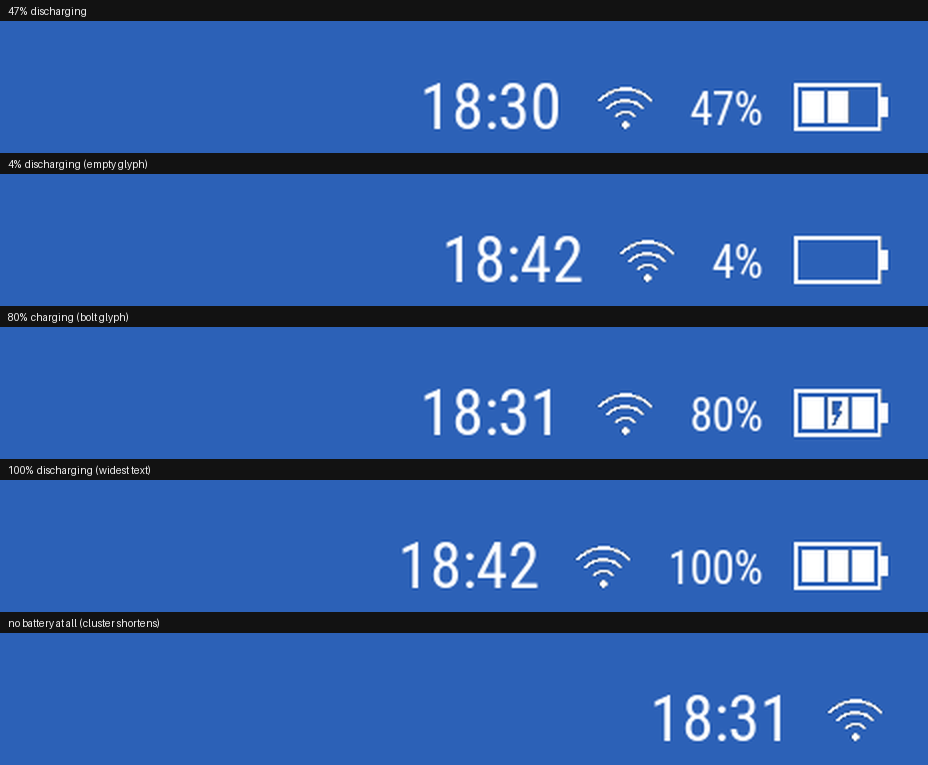
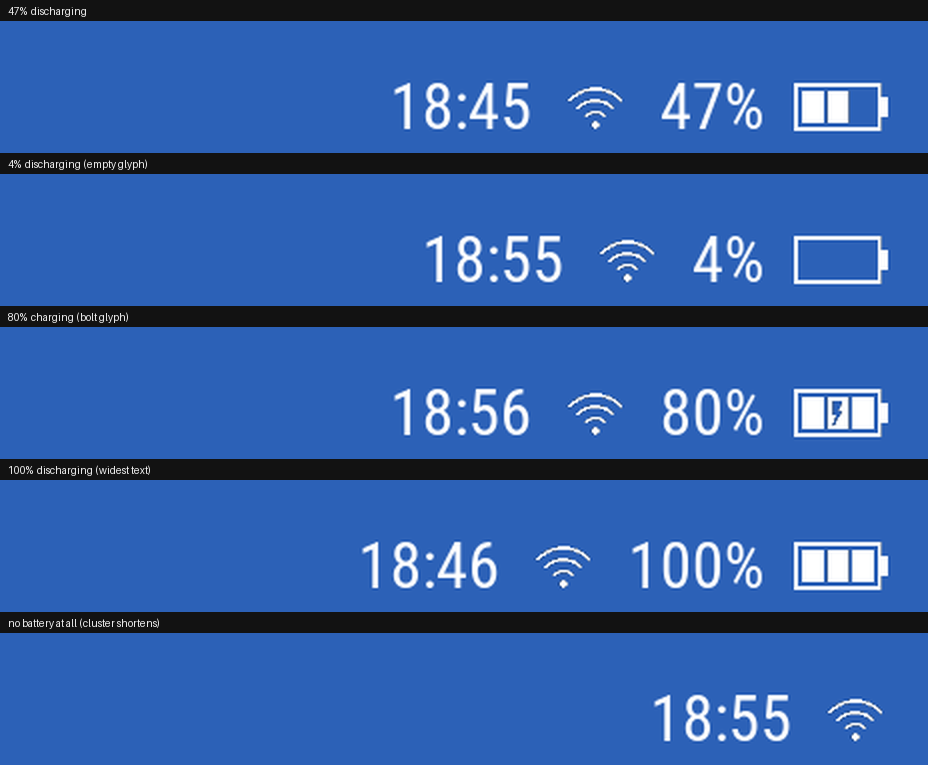
style: the battery percentage matches the clock (#4)
User feedback from the hammer: the percentage should be the same font,
size and weight as the time. It was fontRegular at 0.030 next to the
clock's 0.042 - same family and weight, but two thirds the size, which
read as a different class of information rather than as part of the set.
They are the cluster's only text and sit on the same line, so they are
now one type style. test-battery.sh guards them staying in step.

The percentage is wider as a result, so the panel-width guard's table was
re-measured. It is now the measured width of the WHOLE cluster at its
widest rather than a sum of per-element widths, which is both simpler and
the quantity that actually matters.

To measure that honestly the harness gained CLOCK_12H. ES renders %H:%M
or %I:%M %p from its ClockMode12 setting, the Bricks are set to 12-hour,
and that clock is ~1.7x wider than the 24-hour one the harness rendered
by default - so every previous width measurement here understated the
real worst case and had to be scaled by hand from a device screenshot.
Now it is rendered directly: widest cluster is 0.408 of the width at 1:1,
against a 0.50 panel.

30/30 mutations caught, all 10 suites pass.

diff --git a/docs/psp-xmb-style-guidelines.md b/docs/psp-xmb-style-guidelines.md
@@ -645,7 +645,7 @@ All `<fontSize>` values are normalized to screen height (0.0-1.0):
 | Element | Token | Size | Approx px @ 768px | Use |
 |:---|:---:|:---:|:---:|:---|
 | Card title (`cardTitle`) | `fontRegular` | `0.075` Boxart / `0.060` Compact (`cardTitleFontSize`) | 58 / 46 | Largest copy — the expanded card's game name, left-aligned above the rule. Set per Icon Size subset. |
-| Clock | `fontRegular` | `0.042` | 32 | Largest copy in the status bar. Right-aligned. |
+| Clock, battery percentage | `fontRegular` | `0.042` | 32 | Largest copy in the status bar. The two share one size deliberately — they are the cluster's only text and sit on the same line. |
 | Gamelist system caption (`md_systemName`) | `fontLight` | `0.040` | 31 | Under the pinned system icon in the gamelist header. |
 | System-name caption (system view) | `fontLight` | `0.034` | 26 | Below the selected category icon. |
 | Count caption | `fontLight` | `0.034` | 26 | When Game Count: Show. |
@@ -1078,7 +1078,7 @@ also the child order in the XML:
 | Element | Notes |
 |:---|:---|
 | `batteryIcon` | Battery glyph. `maxSize (0.125, 1)` — panel-relative |
-| `batteryText` | `NN%`, `fontSize 0.030` |
+| `batteryText` | `NN%`. Same `fontRegular` / `0.042` as the clock — one status-bar type style, not a hierarchy |
 | `networkIcon` | Theme's own wifi glyph, `art/ui/network.png`, `maxSize (0.09, 1)` |
 | `clock` | `fontSize 0.042`, the largest text in the UI |
 
@@ -1105,11 +1105,13 @@ changes, so the cluster re-packs itself the moment ES hides one.
   width extends left and costs nothing, because reverse packing starts
   at the right edge. That is what lets one set of literals serve all
   five aspect ratios: a `<fontSize>` is a fraction of screen HEIGHT
-  while positions are fractions of WIDTH, so `"100%"` is `0.058` of the
-  width at 1:1 against `0.045` at 4:3, and any hand-placed layout has to
-  be re-tuned per ratio to stop it colliding. If contents ever *do*
-  exceed the panel, `performLayout` clamps the overflowing child rather
-  than overflowing — a too-narrow panel silently truncates the clock.
+  while positions are fractions of WIDTH, so text takes a different share
+  of the width on every surface and any hand-placed layout has to be
+  re-tuned per ratio to stop it colliding. The widest the cluster gets is
+  `0.408` of the width — 1:1, 12-hour clock, `"100%"` — against the
+  panel's `0.50`. If contents ever *do* exceed the panel,
+  `performLayout` clamps the overflowing child rather than overflowing:
+  a too-narrow panel silently truncates the clock.
 - **Height is `0.030` — one glyph ink-height, not the strip's `0.06`.**
   `performLayout` top-aligns image children whatever their origin: it
   sets y to `pos.y - h*origin.y + panelH*origin.y` and the origin then

diff --git a/docs/screenshots/v0.13-battery-widget/README.md b/docs/screenshots/v0.13-battery-widget/README.md
@@ -52,17 +52,23 @@ the cluster shortens to clock + network glyph.
 ## `harness-aspect-ratios.png`
 
 All five design surfaces at `100%`, the widest string the percentage can be.
+Rendered with `CLOCK_12H=true` and `--battery 100`: the 12-hour clock the
+Bricks are set to is ~1.7x wider than ES's 24-hour default, and `"100%"` is
+the widest the percentage gets, so this is the case the cluster has to fit.
+
 The first pass hand-placed each element, which cannot hold across ratios: x
 positions are fractions of screen *width* but a `<fontSize>` is a fraction of
-screen *height*, so `"100%"` is 0.058 of the width at 1:1 against 0.045 at
-4:3. The 4:3 literals ran it into the battery glyph at 8:7 (6 px clearance)
-and 1:1 (3 px — touching).
+screen *height*, so text takes a different share of the width on every
+surface. The 4:3 literals ran the percentage into the battery glyph at 8:7
+(6 px clearance) and 1:1 (3 px — touching).
 
 The second pass fixed that with per-ratio variables. Those are now **gone**:
 the cluster is a `<stackpanel>` that packs itself from the right margin, so
 one set of literals serves every surface and there is nothing to re-tune.
-Measured after: four separated groups at every ratio, right edge 0.979,
-inter-element gaps 11–24 px, all ink centres within 1 px of 0.0605.
+Measured after, at the 12-hour/`100%` worst case: right edge 0.979 at every
+ratio, and cluster widths of 0.305 (4:3), 0.351 (8:7), 0.321 (3:2), 0.230
+(16:9) and 0.408 (1:1) against a panel of 0.50. Those five numbers are the
+table `test-battery.sh` guards the panel width against.
 
 ## `harness-showbattery-collapse.png`
 
